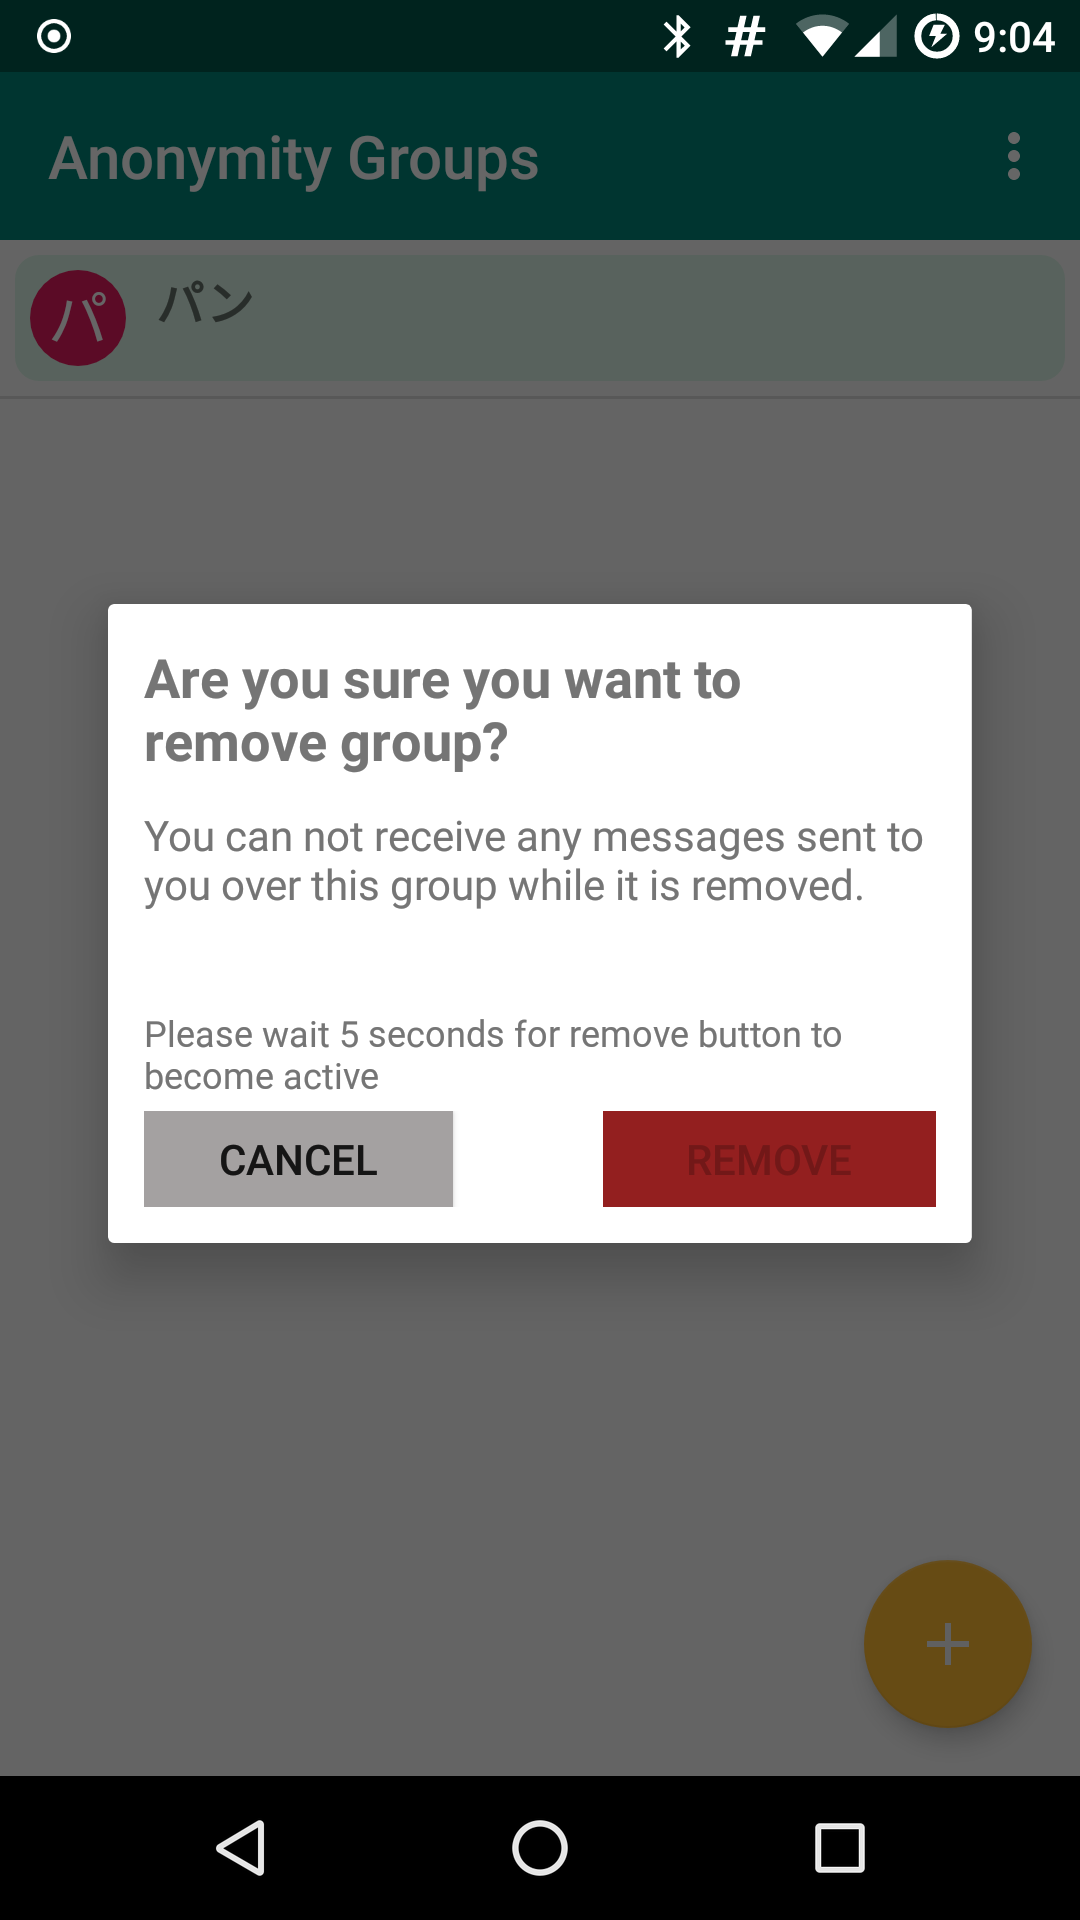
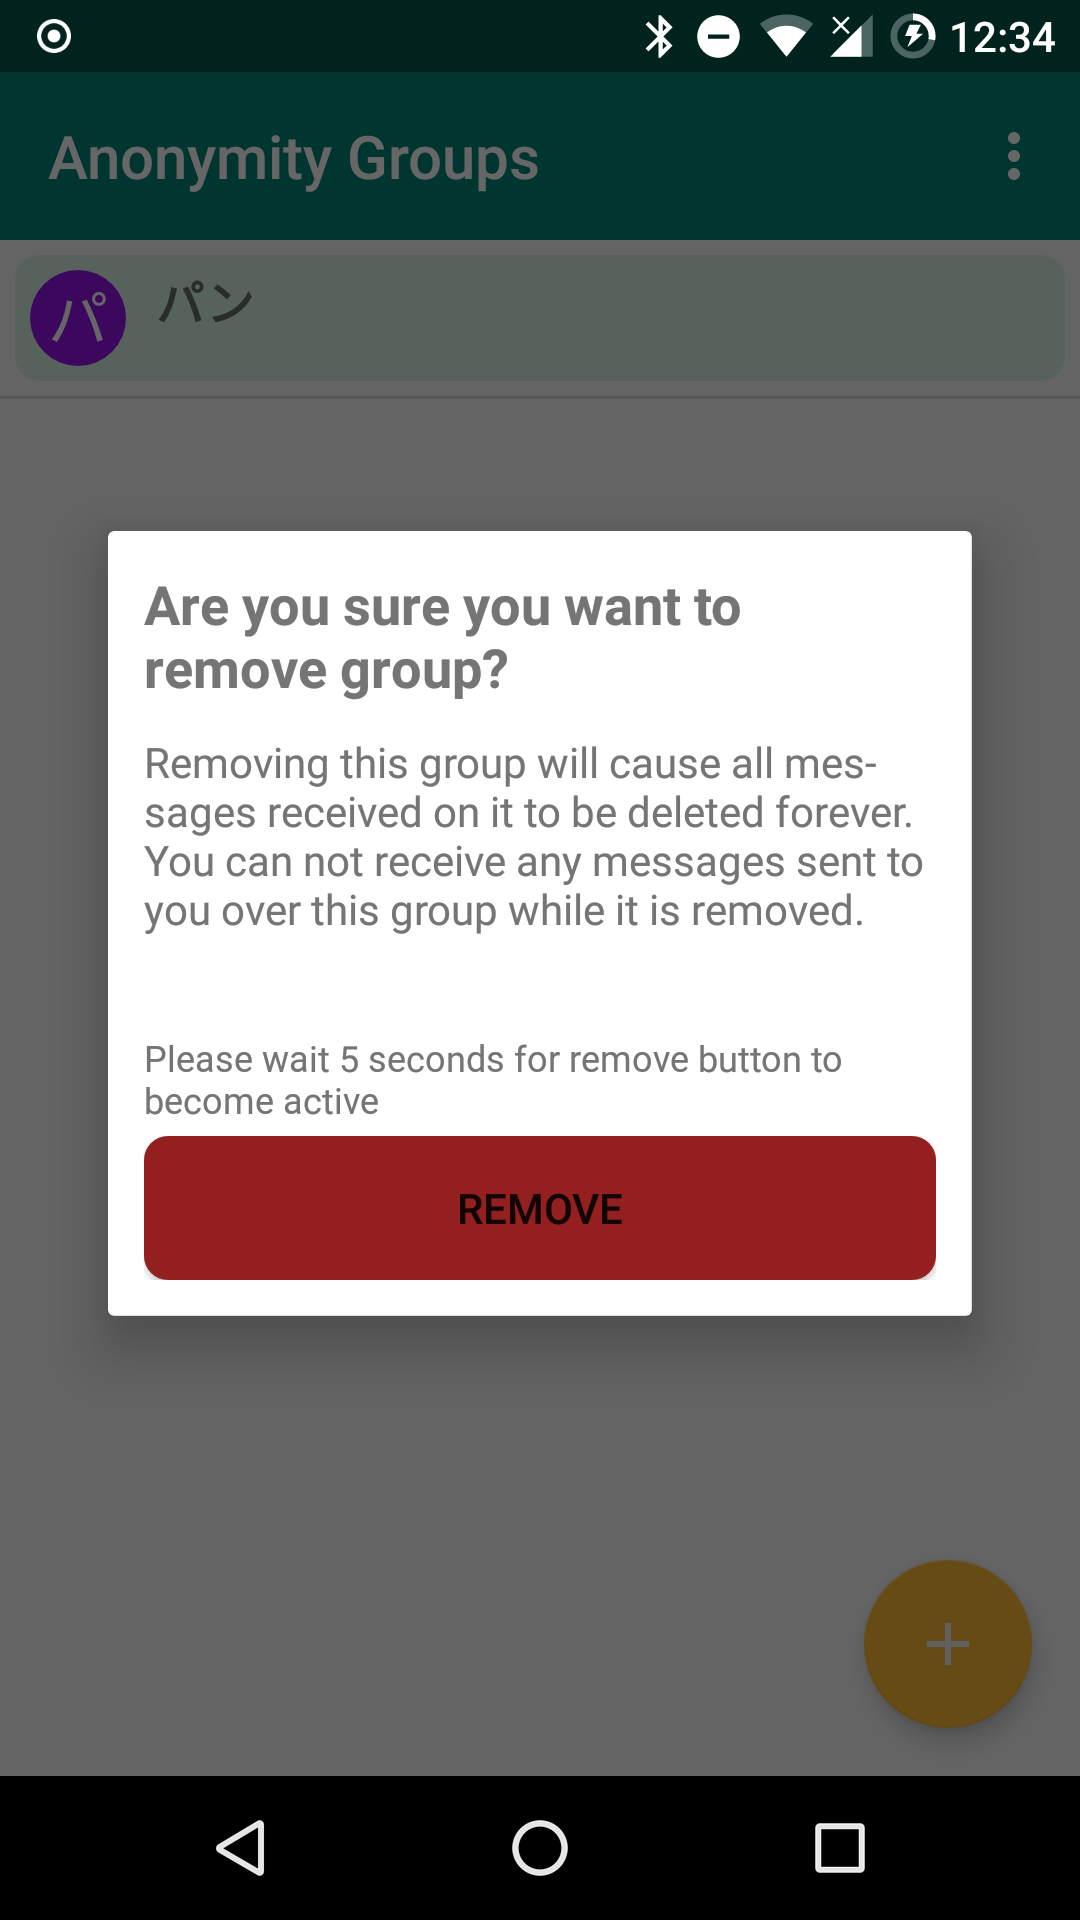
Finished issues #7 and #12 by supporting QR codes for reading peer identities as well as displaying own identity. Improved remove button colouring, updated example pictures

diff --git a/app/src/main/java/com/unix4all/rypi/distort/NewConversationFragment.java b/app/src/main/java/com/unix4all/rypi/distort/NewConversationFragment.java
@@ -1,15 +1,27 @@
 package com.unix4all.rypi.distort;
 
+import android.app.Activity;
+import android.content.Intent;
 import android.os.Bundle;
 import android.support.annotation.Nullable;
+import android.support.design.widget.Snackbar;
 import android.support.v4.app.DialogFragment;
 import android.support.v4.app.Fragment;
+import android.util.Log;
 import android.view.LayoutInflater;
 import android.view.View;
 import android.view.ViewGroup;
 import android.view.WindowManager;
 import android.widget.Button;
 import android.widget.EditText;
+
+import com.google.zxing.integration.android.IntentIntegrator;
+import com.google.zxing.integration.android.IntentResult;
+
+import org.json.JSONObject;
+
+import java.util.regex.Matcher;
+import java.util.regex.Pattern;
 
 
 /**
@@ -27,6 +39,11 @@ public class NewConversationFragment extends DialogFragment {
     private EditText mPeerId;
     private EditText mAccountName;
     private Button mAddPeer;
+    private Button mScanQrCode;
+
+    private IntentIntegrator qrCodeScan;
+
+    private static final Pattern IS_ACCOUNT_ID_PATTERN = Pattern.compile("^([a-zA-Z0-9]+)(:(.+))?$");
 
 
     /**
@@ -54,6 +71,9 @@ public class NewConversationFragment extends DialogFragment {
     @Override
     public View onCreateView(LayoutInflater inflater, ViewGroup container,
                              Bundle savedInstanceState) {
+
+        qrCodeScan = new IntentIntegrator(getActivity());
+
         // Inflate the layout for this fragment
         return inflater.inflate(R.layout.fragment_new_conversation, container);
     }
@@ -63,10 +83,21 @@ public class NewConversationFragment extends DialogFragment {
         super.onViewCreated(view, savedInstanceState);
 
         // Find EditText views
-        mFriendlyName = (EditText) view.findViewById(R.id.newPeerFriendlyName);
-        mPeerId = (EditText) view.findViewById(R.id.newPeerId);
-        mAccountName = (EditText) view.findViewById(R.id.newPeerAccountName);
-        mAddPeer = (Button) view.findViewById(R.id.newPeerAddButton);
+        mFriendlyName = view.findViewById(R.id.newPeerFriendlyName);
+        mPeerId = view.findViewById(R.id.newPeerId);
+        mAccountName = view.findViewById(R.id.newPeerAccountName);
+        mAddPeer = view.findViewById(R.id.newPeerAddButton);
+
+        // Allow QR code scans
+        mScanQrCode = view.findViewById(R.id.scanQRCodeButton);
+        final Activity activity = getActivity();
+        mScanQrCode.setOnClickListener(new View.OnClickListener() {
+            @Override
+            public void onClick(View v) {
+                qrCodeScan.forSupportFragment(NewConversationFragment.this).initiateScan();
+            }
+        });
+
 
         // Set dialog title
         getDialog().setTitle(R.string.title_create_new_conversation);
@@ -82,6 +113,23 @@ public class NewConversationFragment extends DialogFragment {
                 finishDialog();
             }
         });
+    }
+
+    @Override
+    public void onActivityResult(int requestCode, int resultCode, Intent intent) {
+        IntentResult result = IntentIntegrator.parseActivityResult(requestCode, resultCode, intent);
+        if(result != null && result.getContents() != null) {
+            result.getContents();
+            Matcher matcher = IS_ACCOUNT_ID_PATTERN.matcher(result.getContents());
+            if(matcher.matches()) {
+                mPeerId.setText(matcher.group(1));
+                mAccountName.setText(matcher.group(3));
+            } else {
+                mPeerId.setText("");
+                mAccountName.setText("");
+                Snackbar.make(getView().findViewById(R.id.newConversationLayout), R.string.error_invalid_barcode, Snackbar.LENGTH_SHORT).show();
+            }
+        }
     }
 
     private boolean finishDialog() {

diff --git a/app/src/main/java/com/unix4all/rypi/distort/AccountIdFragment.java b/app/src/main/java/com/unix4all/rypi/distort/AccountIdFragment.java
@@ -1,0 +1,95 @@
+package com.unix4all.rypi.distort;
+
+import android.content.Context;
+import android.graphics.Bitmap;
+import android.graphics.Color;
+import android.net.Uri;
+import android.os.Bundle;
+import android.support.annotation.Nullable;
+import android.support.v4.app.DialogFragment;
+import android.support.v4.app.Fragment;
+import android.view.LayoutInflater;
+import android.view.View;
+import android.view.ViewGroup;
+import android.widget.Button;
+import android.widget.EditText;
+import android.widget.ImageView;
+import android.widget.TextView;
+
+import com.google.zxing.BarcodeFormat;
+import com.google.zxing.WriterException;
+import com.google.zxing.common.BitMatrix;
+import com.google.zxing.qrcode.QRCodeWriter;
+
+
+public class AccountIdFragment extends DialogFragment {
+    private static final String PEER_ID = "peerId";
+    private static final String ACCOUNT_NAME = "accountName";
+
+    private String mPeerId;
+    private String mAccountName;
+
+    private ImageView mAccountBarCode;
+    private TextView mAccountId;
+    private Button mCloseButton;
+
+    public AccountIdFragment() {
+        // Required empty public constructor
+    }
+
+    public static AccountIdFragment newInstance(String peerId, String accountName) {
+        AccountIdFragment fragment = new AccountIdFragment();
+        Bundle args = new Bundle();
+        args.putString(PEER_ID, peerId);
+        args.putString(ACCOUNT_NAME, accountName);
+        fragment.setArguments(args);
+        return fragment;
+    }
+
+    @Override
+    public View onCreateView(LayoutInflater inflater, ViewGroup container,
+                             Bundle savedInstanceState) {
+        Bundle args = getArguments();
+        mPeerId = args.getString(PEER_ID);
+        mAccountName = args.getString(ACCOUNT_NAME);
+        return inflater.inflate(R.layout.fragment_account_id, container, false);
+    }
+
+    @Override
+    public void onViewCreated(View view, @Nullable Bundle savedInstanceState) {
+        String fullAddress = DistortPeer.toFullAddress(mPeerId, mAccountName);
+
+        // Generate QR code of Account ID
+        mAccountBarCode = view.findViewById(R.id.accountQrCode);
+        mAccountBarCode.setContentDescription(fullAddress);
+        try {
+            final int length = 512;
+            BitMatrix matrix = new QRCodeWriter().encode(fullAddress, BarcodeFormat.QR_CODE, length, length);
+            Bitmap img = Bitmap.createBitmap(length, length, Bitmap.Config.RGB_565);
+            for(int i = 0; i < length; i ++) {
+                for(int j = 0; j < length; j++) {
+                    img.setPixel(i, j, matrix.get(i, j) ? Color.BLACK : Color. WHITE);
+                }
+            }
+            mAccountBarCode.setImageBitmap(img);
+        } catch (WriterException e) {
+            e.printStackTrace();
+        }
+
+        // Set text code
+        mAccountId = view.findViewById(R.id.accountIdText);
+        mAccountId.setText(fullAddress);
+
+        // Allow button to close dialog
+        mCloseButton = view.findViewById(R.id.closeButton);
+        mCloseButton.setOnClickListener(new View.OnClickListener() {
+            @Override
+            public void onClick(View v) {
+                dismiss();
+            }
+        });
+
+        // Set dialog title
+        getDialog().setTitle(R.string.menu_account_id);
+    }
+}

diff --git a/app/src/main/java/com/unix4all/rypi/distort/TimedRemoveFragment.java b/app/src/main/java/com/unix4all/rypi/distort/TimedRemoveFragment.java
@@ -75,7 +75,7 @@ public class TimedRemoveFragment extends DialogFragment {
 
         mRemoveButton = view.findViewById(R.id.timedRemoveAcceptButton);
         mRemoveButton.setEnabled(false);
-        ((GradientDrawable)mRemoveButton.getBackground()).setColor(getResources().getColor(R.color.removeButton));
+        ((GradientDrawable)mRemoveButton.getBackground()).setColor(getResources().getColor(R.color.removeButtonDisabled));
         mTimedEnableTask = new TimedEnableTask(5000L);
         mTimedEnableTask.execute();
     }
@@ -111,7 +111,10 @@ public class TimedRemoveFragment extends DialogFragment {
                     mActivity.runOnUiThread(new Runnable() {
                         @Override
                         public void run() {
+                            // Enable remove button
                             mRemoveButton.setEnabled(true);
+                            ((GradientDrawable)mRemoveButton.getBackground()).setColor(getResources().getColor(R.color.removeButton));
+
                             mRemoveButton.setOnClickListener(new View.OnClickListener() {
                                 @Override
                                 public void onClick(View v) {

diff --git a/app/src/main/java/com/unix4all/rypi/distort/GroupsActivity.java b/app/src/main/java/com/unix4all/rypi/distort/GroupsActivity.java
@@ -130,6 +130,11 @@ public class GroupsActivity extends AppCompatActivity implements NewGroupFragmen
                 Intent intent = new Intent(this, SettingsActivity.class);
                 this.startActivity(intent);
                 return true;
+            case R.id.accountIdOption:
+                fm = getSupportFragmentManager();
+                AccountIdFragment accountIdFragment = AccountIdFragment.newInstance(mLoginParams.getPeerId(), mLoginParams.getAccountName());
+                accountIdFragment.show(fm, "fragment_accountIdLayout");
+                return true;
             default:
                 return super.onOptionsItemSelected(item);
         }

diff --git a/README.md b/README.md
@@ -21,3 +21,7 @@ if the user manually installs it to their Android device.
     <img src="images/notifications.png" width="300" height="183" />
 * #### Leave Group
     <img src="images/leave_group.png" width="300" height="533" />
+* #### Display Account as QR Code
+    <img src="images/display_qr.png" width="300" height="533" />
+* #### Read Peer Accounts as QR Codes
+    <img src="images/read_qr.png" width="300" height="533" />
